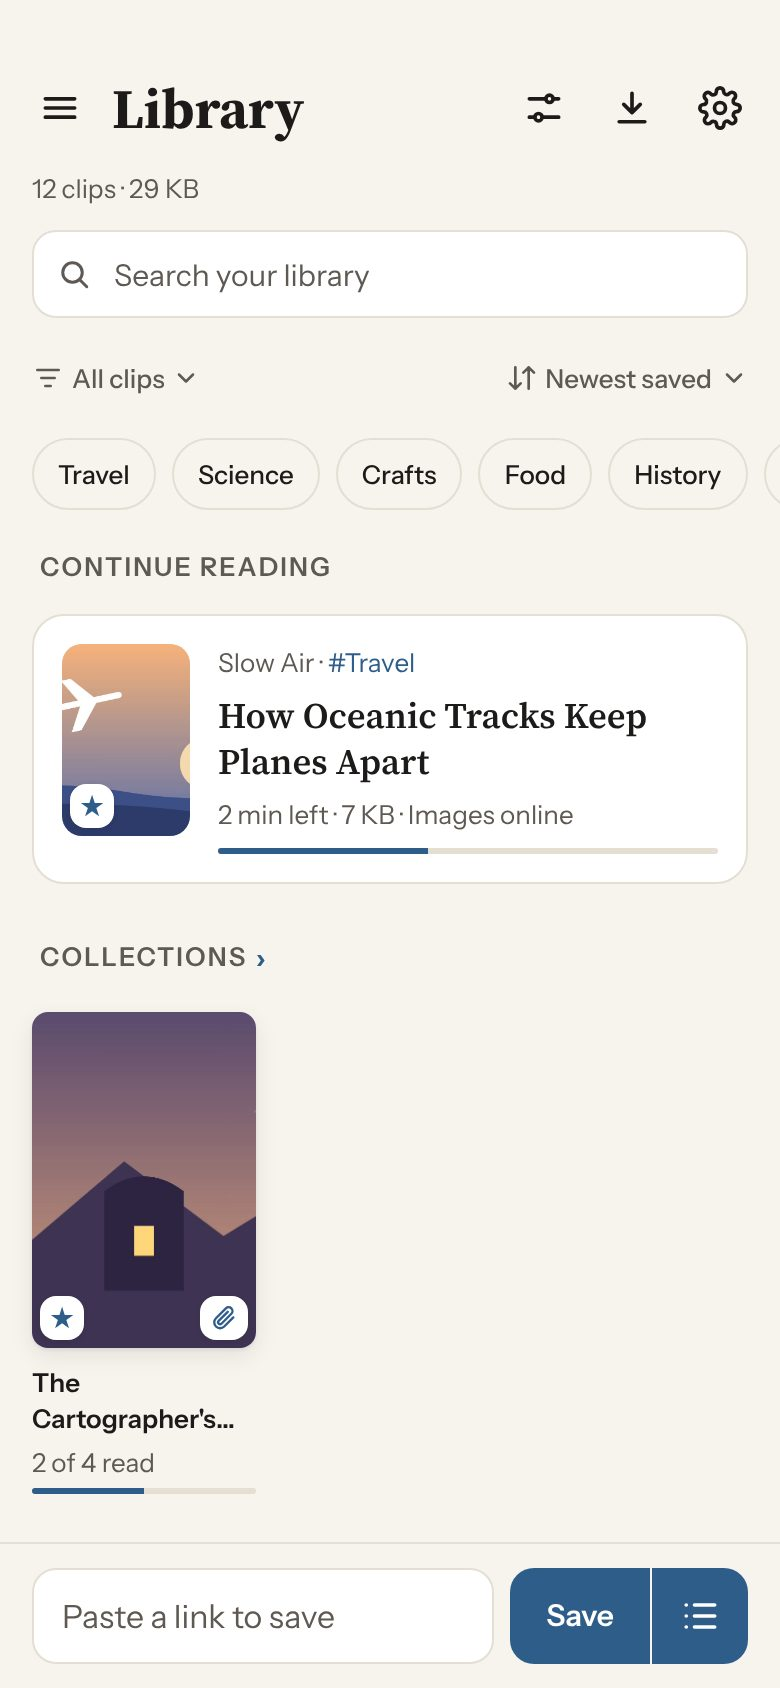
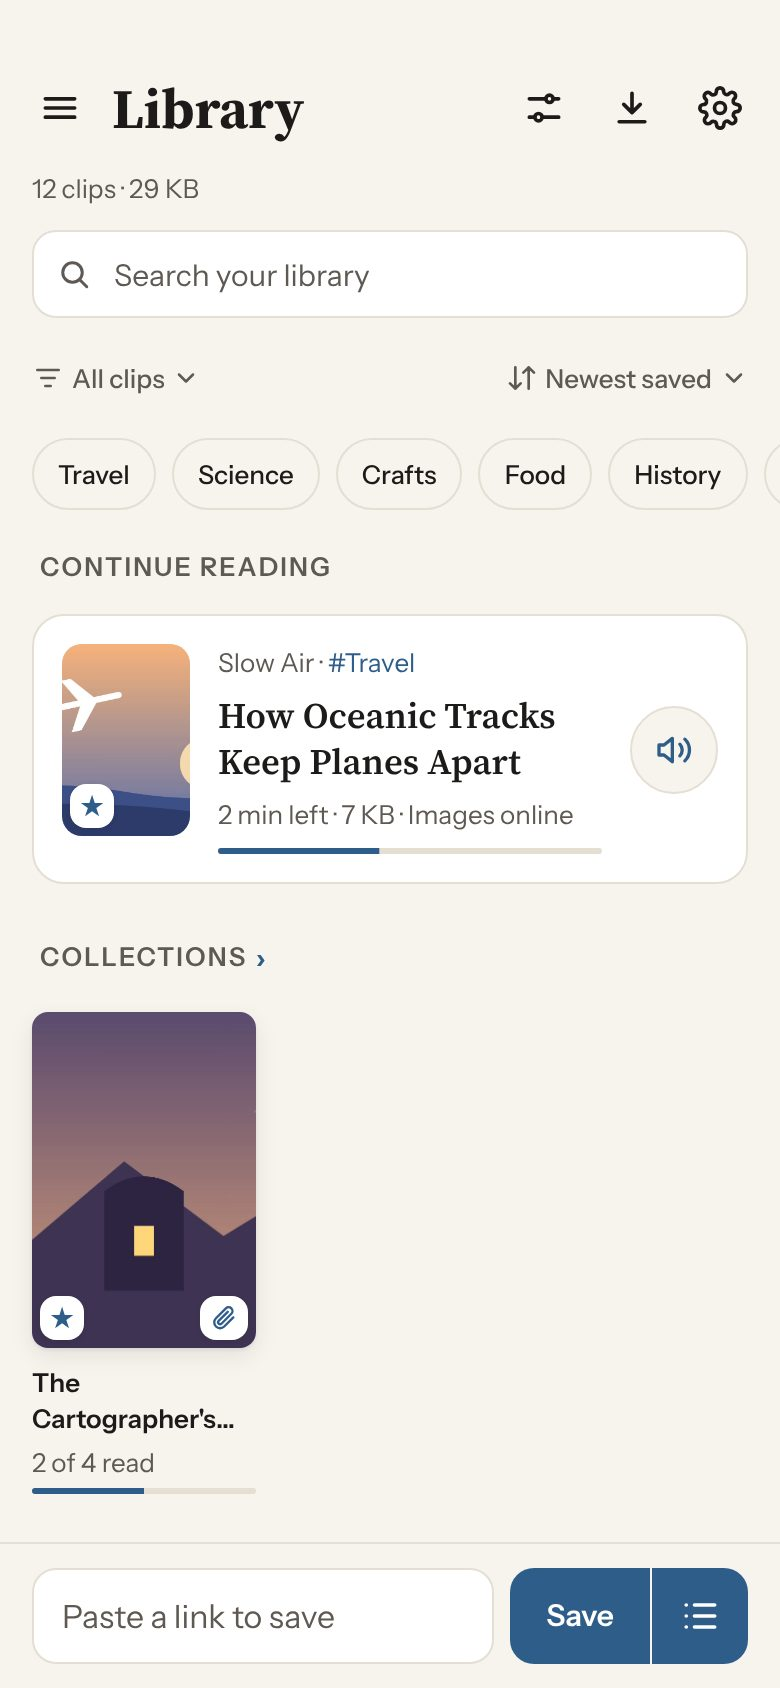
Narrate on Continue reading, and the place follows the voice off screen (#416)
A round Narrate button on the Continue reading card opens the clip at its
place and narrates from there. With the clip closed or the phone locked,
the reading place now follows the voice: each block's spot is taken when
the reading starts, since a hidden page doesn't scroll.

Claude-Session: https://claude.ai/code/session_01CFeKriJ7MMS8iPTK2jiLBx

diff --git a/src/app-reader.js b/src/app-reader.js
@@ -1246,7 +1246,7 @@ function closeReader() {
 // `map` is each piece's block, which the reader lights up.
 
 const speech = C.platform.speech;
-const aloud = { key: "", map: [], state: "stopped", index: -1, arrived: false };
+const aloud = { key: "", map: [], places: [], state: "stopped", index: -1, arrived: false };
 // Whether the clip being read aloud is the one open in the reader; when
 // it isn't (another clip, the library, Settings), the bar along the
 // bottom of the app shows it instead (1.4.0).
@@ -1469,7 +1469,7 @@ async function startAloud(from, spot) {
   });
   const { items, map, first } = pieces(parts);
   const start = Math.max(0, first);
-  Object.assign(aloud, { key: p.id, map });
+  Object.assign(aloud, { key: p.id, map, places: C.reader.places() });
   setAloud("playing", start);
   queued = null;
   try {
@@ -1511,10 +1511,10 @@ async function queueNext() {
   let html;
   try { html = await C.store.readPage(next.id); } catch (e) { html = null; }
   if (!html || aloud.key !== p.id) return;
-  const texts = C.reader.readableIn(html, { footnotes: !!load(FOOTNOTES_KEY, false), edges: !!load(EDGES_KEY, false) });
+  const { texts, places } = C.reader.readableAt(html, { footnotes: !!load(FOOTNOTES_KEY, false), edges: !!load(EDGES_KEY, false) });
   if (!texts.length) return;
   const { items, map } = pieces(texts.map((text, block) => ({ text, block })));
-  queued = { key: next.id, after: p.id, map };
+  queued = { key: next.id, after: p.id, map, places };
   const ok = await speech.queue({ after: p.id, items, start: 0, lang: next.lang || "", voice: voiceFor(next), engine: engineFor(next), mix: !!load(MIX_KEY, false), volume: aloudVolume(),
     key: next.id, blocks: map, ...mediaInfo(next) });
   if (!ok) queued = null;
@@ -1527,7 +1527,7 @@ function wentOn(key) {
   const next = state.pages.find((x) => x.id === key);
   if (!next) return false;
   if (was) { was.finished = true; was.at = 1; delete was.spot; savePositions(); }
-  Object.assign(aloud, { key, map: queued.map });
+  Object.assign(aloud, { key, map: queued.map, places: queued.places });
   queued = null;
   wentOnFrom = "";
   if (was && state.open && state.open.id === was.id) {
@@ -2144,6 +2144,7 @@ function setAloud(st, index) {
     setTimeout(() => { if (aloud.state === "ended" && aloud.key === wentOnFrom) readNext(); }, 800);
   }
   if (!on && !ended) aloud.key = "";
+  for (const n of document.querySelectorAll(".card-narrate")) n.hidden = on && n.closest(".card").dataset.ids === aloud.key;
   if (st !== "playing" && st !== "paused" && sleep.pick) setSleep("");
   else if (sleep.at && Date.now() >= sleep.at - 1000) { sleep.pick = ""; sleep.at = 0; paintSleep(); }
   keepAwake();
@@ -2303,10 +2304,38 @@ speech.onProgress(({ key, index, state: st, thinking }) => {
   const moved = key !== aloud.key;
   if (moved && !wentOn(key)) return;
   setAloud(st, index);
+  keepAloudPlace(index);
   if (moved) queueNext();
   aloudThinking(!!thinking && st === "playing");
   if (!thinking || st !== "playing") aloudMoving = 0;
 });
+// The reading place follows the voice (2026-11) where the page can't:
+// with the clip closed (the bar on Home) or the phone locked. An open
+// page on screen scrolls with it and keeps its own place.
+function keepAloudPlace(index) {
+  const p = aloudPage(), b = aloud.map[index];
+  const at = b != null ? aloud.places[b] : null;
+  if (!p || !at || p.preview || (state.open === p && !document.hidden)) return;
+  if (p.at === at.at && (p.spot || "") === at.spot) return;
+  p.at = at.at;
+  if (at.spot) { p.spot = at.spot; p.spotWords = at.words; } else { delete p.spot; delete p.spotWords; }
+  p.readAt = p.placeAt = Date.now();
+  p.readOn = deviceName();
+  clearTimeout(positionTimer);
+  positionTimer = setTimeout(savePositions, 1500);
+}
+
+// Narrate on Continue reading (2026-11, Daniel's ask): opens the clip at
+// its place and narrates from there, as the reader's own button does.
+// Not for what Narrate can't read, nor while it's this clip being read.
+const narratable = (p) => !!speech.available && !isAudiobook(p) && !p.comic && !p.note && !C.files.printed(p);
+const narratingNow = (p) => aloudOn() && aloud.key === p.id;
+async function narrateFrom(p) {
+  await openPage(p.id);
+  if (state.open !== p || narratingNow(p)) return;
+  voicedSound(p) ? voicedPlay() : startAloud();
+}
+
 // The ring round Pause while the engine makes the piece (Daniel's ask);
 // a quick one never shows it.
 let thinkTimer = 0;

diff --git a/src/reader.js b/src/reader.js
@@ -1079,6 +1079,39 @@
       blocks = was.blocks;
     }
   }
+  // Each block's reading place (2026-11): Narrate keeps the place where
+  // the voice is with the clip closed or the phone locked, where the
+  // page isn't there to scroll. A block's place is the last spot at or
+  // before it, and how much of the text comes before it.
+  function placesOf(list, base) {
+    const total = blocks.reduce((n, b) => n + b.text.length, 0) || 1;
+    let j = -1, before = 0;
+    return blocks.map((b) => {
+      while (j + 1 < list.length && (list[j + 1] === b.el || b.el.compareDocumentPosition(list[j + 1]) & 2)) j++;
+      const a = list[Math.max(0, j)], at = Math.round(before / total * 1000) / 1000;
+      before += b.text.length;
+      return a ? { spot: base + Math.max(0, j) + "/0", words: blockWords(a), at } : { spot: "", words: "", at };
+    });
+  }
+  // For the blocks readable() found just now in the open clip.
+  function places() {
+    if (!doc || (rest && rest.base == null)) return [];
+    findAnchors();
+    return placesOf(anchors, rest ? rest.base : 0);
+  }
+  // readableIn, with each block's place.
+  function readableAt(html, opts) {
+    const was = { doc, blocks };
+    try {
+      doc = new DOMParser().parseFromString(html, "text/html");
+      blocks = [];
+      const texts = readable(opts);
+      return { texts, places: placesOf(anchorsIn(doc), 0) };
+    } finally {
+      doc = was.doc;
+      blocks = was.blocks;
+    }
+  }
   // The same, with each block's heading rank (1 to 3, 0 for text): where
   // Make audiobook starts its chapters.
   function readableRanks(html, opts) {
@@ -2976,5 +3009,5 @@
       return line;
     }));
   }
-  C.reader = { get filling() { return !!rest; }, whole: () => wholeP, shown: () => shownP, say, spotOfId, blockCount, pdfDarkFilter, setEnd, set tapPictures(v) { onTapOnly = !!v; }, set hideFar(v) { hideFar = !!v; }, set note(f) { noteHook = f; }, geometry, open, placed: () => placed, touched: () => touched, settle, close, find, findGo, clearFind, position, spot, jump, setPaged, setPicsDir, setWide, turn, get paged() { return isPaged(); }, pageInfo, screenShare, headings, section, parts, skimTo, jumpTo, readable, readableIn, readableRanks, locateIn, wordless, firstShown, spotIn, light, following, selectionSpot, clearSelection, selectionText, selectionContext, selectionMark, selectionMarks, paintMarks, locate, toMark, textLayer, dropText, hasText, placeText, pageBox, pageImg, pageShown, pageGone, inkRoot, inkBlock, inkBlocks, inkBlockBox, inkBlockAt, inkBlocksNear, inkBlockWords, set inkHook(h) { inkHook = h; }, get frameDoc() { return doc; }, get frameWin() { return frame && frame.contentWindow; }, translatable, paintTranslation, links, spotWords, applyTheme, applyConnection, srcdoc, CSP, setSpread, refit: applyTop, images, imageInfo, printedPages, printedNow, toPrinted, glide, turnSide, lockedPages, repage() { if (doc && picsPaged()) picsLayout(); }, pageZoom: () => pz.s, unzoomPage() { if (pz.s > 1) { resetPz(); placeText(); } } };
+  C.reader = { get filling() { return !!rest; }, whole: () => wholeP, shown: () => shownP, say, spotOfId, blockCount, pdfDarkFilter, setEnd, set tapPictures(v) { onTapOnly = !!v; }, set hideFar(v) { hideFar = !!v; }, set note(f) { noteHook = f; }, geometry, open, placed: () => placed, touched: () => touched, settle, close, find, findGo, clearFind, position, spot, jump, setPaged, setPicsDir, setWide, turn, get paged() { return isPaged(); }, pageInfo, screenShare, headings, section, parts, skimTo, jumpTo, readable, readableIn, readableAt, places, readableRanks, locateIn, wordless, firstShown, spotIn, light, following, selectionSpot, clearSelection, selectionText, selectionContext, selectionMark, selectionMarks, paintMarks, locate, toMark, textLayer, dropText, hasText, placeText, pageBox, pageImg, pageShown, pageGone, inkRoot, inkBlock, inkBlocks, inkBlockBox, inkBlockAt, inkBlocksNear, inkBlockWords, set inkHook(h) { inkHook = h; }, get frameDoc() { return doc; }, get frameWin() { return frame && frame.contentWindow; }, translatable, paintTranslation, links, spotWords, applyTheme, applyConnection, srcdoc, CSP, setSpread, refit: applyTop, images, imageInfo, printedPages, printedNow, toPrinted, glide, turnSide, lockedPages, repage() { if (doc && picsPaged()) picsLayout(); }, pageZoom: () => pz.s, unzoomPage() { if (pz.s > 1) { resetPz(); placeText(); } } };
 })();

diff --git a/test/ui.test.js b/test/ui.test.js
@@ -3359,6 +3359,55 @@ c("bk1", { at: 0.01 })]);
       await q.context().close();
     });
 
+    await test("Narrate on Continue reading, and the place following the voice with the clip closed (2026-11)", async () => {
+      const q = await page(browser, 390);
+      await q.evaluate(async () => {
+        const S = window.Waypage.store;
+        const c = { id: "n1", url: "https://example.com/n1", title: "Long clip", site: "example.com", savedAt: 1000, minutes: 9, mode: "links", at: 0.05, readAt: Date.now() };
+        await S.writeIndex([c]);
+        let body = "<h1>Long clip</h1>";
+        for (let i = 0; i < 60; i++) body += "<p>Paragraph number " + i + " of the long clip, with enough words in it to take a line or two.</p>";
+        await S.writePage("n1", "<!doctype html><html><body>" + body + "</body></html>", c);
+      });
+      await q.reload();
+      await q.waitForSelector(".continue .card-narrate");
+      const got = await q.evaluate(async () => {
+        const sp = window.Waypage.platform.speech;
+        sp.play = (o) => { window.played = o; return Promise.resolve(); };
+        sp.stop = () => Promise.resolve();
+        const wait = (f) => new Promise((ok) => { const t = setInterval(() => { if (f()) { clearInterval(t); ok(); } }, 50); });
+        document.querySelector(".continue .card-narrate").click();
+        await wait(() => window.played && state.open && state.open.id === "n1");
+        const out = { start: window.played.start > 0, reading: aloud.key === "n1" && aloud.state === "playing" };
+        closeReader();
+        await wait(() => !state.open && document.querySelector(".continue .card-narrate"));
+        await new Promise((r) => setTimeout(r, 300));
+        out.hidden = document.querySelector(".continue .card-narrate").hidden;
+        // The voice moves on with the clip closed: the place goes with it.
+        const p = state.pages.find((x) => x.id === "n1"), was = p.at;
+        const last = window.played.items.length - 3, block = aloud.map[last];
+        setAloud("playing", last);
+        keepAloudPlace(last);
+        out.moved = p.at > was && !!p.spot && /Paragraph number/.test(p.spotWords);
+        await savePositions();
+        sp.stop(); setAloud("stopped", -1);
+        openPage("n1");
+        await wait(() => state.open && state.open.id === "n1");
+        await window.Waypage.reader.placed();
+        out.block = block;
+        await new Promise((r) => setTimeout(r, 800));
+        window.Waypage.reader.readable();
+        out.back = window.Waypage.reader.firstShown().index;
+        return out;
+      });
+      assert.ok(got.start && got.reading, JSON.stringify(got));
+      assert.strictEqual(got.hidden, true);
+      assert.ok(got.moved, JSON.stringify(got));
+      assert.ok(Math.abs(got.back - got.block) <= 1, JSON.stringify(got));
+      assert.deepStrictEqual(q.errors, [], q.errors.join(" | "));
+      await q.context().close();
+    });
+
     await test("an audiobook's Keep playing when you leave the book (2026-11)", async () => {
       const q = await page(browser, 390);
       await q.evaluate(async () => {

diff --git a/src/app-cards.js b/src/app-cards.js
@@ -665,7 +665,14 @@ function pageCard(p, found, hero) {
       el("span", { class: "card-status" }, facts, status ? " · " : null, status, retry ? " · " : null, retry),
       started ? el("span", { class: "progress thin", role: "progressbar", "aria-label": t("Read so far"),
         "aria-valuemin": "0", "aria-valuemax": "100", "aria-valuenow": String(Math.round(done * 100)) },
-        el("span", { class: "progress-fill", style: "transform: scaleX(" + done + ")" })) : null));
+        el("span", { class: "progress-fill", style: "transform: scaleX(" + done + ")" })) : null),
+    hero && narratable(p) ? narrateButton(p) : null);
+}
+function narrateButton(p) {
+  const b = el("button", { class: "card-narrate", type: "button", "aria-label": t("Narrate"), title: t("Narrate"), hidden: narratingNow(p) ? "" : null,
+    onclick: () => tapPages([p.id], () => narrateFrom(p)) });
+  b.innerHTML = '<svg width="20" height="20" viewBox="0 0 24 24" fill="none" stroke="currentColor" stroke-width="2" stroke-linecap="round" stroke-linejoin="round" aria-hidden="true"><path d="M11 5L6 9H3v6h3l5 4V5z"/><path d="M15.5 8.5a5 5 0 0 1 0 7M18.5 5.5a9 9 0 0 1 0 13"/></svg>';
+  return b;
 }
 
 // A favourite's star sits on its picture's corner (1.16.0), not by its

diff --git a/src/styles.css b/src/styles.css
@@ -437,6 +437,16 @@ a.btn-small { text-decoration: none; white-space: nowrap; display: inline-flex; 
   vertical-align: middle;
 }
 .card-retry:disabled { color: var(--muted); cursor: default; }
+/* Narrate on Continue reading (2026-11): a round button on the card's
+   far side, so the card keeps its height. */
+.card-narrate {
+  position: relative; z-index: 1; flex: none; align-self: center;
+  width: var(--tap); height: var(--tap); padding: 0;
+  display: inline-flex; align-items: center; justify-content: center;
+  border: 1px solid var(--line); border-radius: var(--r-full);
+  background: var(--bg); color: var(--accent); cursor: pointer;
+}
+.card-narrate[hidden], .selecting .card-narrate { display: none; }
 .card.saving { cursor: default; }
 /* A run's card keeps one height: its status is one line whatever it says. */
 .card.run .card-status { display: block; overflow: hidden; white-space: nowrap; text-overflow: ellipsis; }

diff --git a/ARCHITECTURE.md b/ARCHITECTURE.md
@@ -1129,6 +1129,10 @@ adds a line here.
 
 Things that broke once and would again. Check here before touching the
 area.
+- Narrate's reading place with the page off screen (clip closed, phone locked)
+  comes from `aloud.places`, each block's spot taken when the reading starts
+  (`C.reader.places()`, or `readableAt` for a queued next clip). The page's
+  scroll can't keep it there: a hidden page doesn't scroll.
 - Chrome and Android's WebView ignore `touch-action` on SVG shapes. A drag that
   starts on one (a comment bubble in `ink.js`) is cancelled by the browser's
   own pan (`pointercancel`), and the item snaps back. Give the shape a real

diff --git a/changes/feature-continue-narrate.md b/changes/feature-continue-narrate.md
@@ -1,0 +1,5 @@
+### Added
+- Continue reading has a Narrate button on the card's far side. It opens the clip where you left off and narrates from there, with the voice you picked for its language. It isn't shown for audiobooks, comics, notes or PDFs shown as pages, nor while that clip is already being narrated.
+
+### Fixed
+- Narrating with the clip closed (from the bar on Home) or with the phone locked now keeps your reading place where the voice is, so the clip opens there next time. Before, the place stayed where the page was last on screen.
